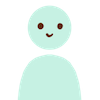
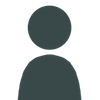
Home page and Nav bar

diff --git a/client/src/pages/Home.jsx b/client/src/pages/Home.jsx
@@ -1,0 +1,52 @@
+import '../styles/Home.css';
+import boxImage from '../assets/box.png'; 
+import { useState } from 'react';
+import { useNavigate } from 'react-router-dom'; 
+
+/**
+ * a home page with a search bar that brings you to the posts page
+ * @component
+ * @returns {JSX.Element} Home/Landing page
+ */
+export function HomePage() {
+    const [item, setItem] = useState(''); 
+    const navigate = useNavigate(); 
+
+    const search = () => {
+        navigate('/posts', { state: {searchItem: item} }); 
+    }; 
+
+    const trackItem = (e) => {
+        setItem(e.target.value)
+    }
+
+    const handleEnter = (e) => {
+        if (e.key === "Enter") { 
+            search(); 
+        }
+    }; 
+
+    return (
+        <div className="home-page">
+            <h1>Welcome! Hope you're ready to salvage and sustain your items!</h1>
+            <div className="block">
+                <h2>What would you like to give away?</h2>
+                <div className="box-block">
+                    <input 
+                        className="box-input" 
+                        placeholder='Place your item here' 
+                        value={item}
+                        onKeyDown={handleEnter}
+                        onChange={trackItem}>
+                    </input>
+                    <button 
+                        className="box-button"
+                        onClick={search}>
+                        Search
+                    </button>
+                    <img className="box-image" src={boxImage}></img>
+                </div>
+            </div>
+        </div>
+    ); 
+}

diff --git a/client/src/styles/Home.css b/client/src/styles/Home.css
@@ -1,0 +1,56 @@
+.home-page {
+    height: 70vh;
+    display: flex; 
+    align-items: center;
+    padding: 2rem; 
+    flex-direction: column;
+}
+
+.block {
+    background-color: var(--bg-secondary);
+    padding: 1rem; 
+    min-width: 25%;
+    max-width: 50%;
+    display: flex;
+    flex-direction: column;
+    align-items: center;
+    border-radius: 20px;
+}
+
+.box-block {
+    position: relative;  
+    display: flex; 
+    justify-content: center;
+}
+
+.box-image {
+    width: 100%;  
+}
+
+.box-input {
+    position: absolute; 
+    text-align: center;
+    width: 50%;
+    top: 60%; 
+    left: 51%; 
+    transform: translate(-50%, -50%);
+    padding: 1rem;
+}
+
+.box-button {
+    position: absolute; 
+    top: 80%; 
+    left: 51%; 
+    transform: translate(-50%, -50%);
+    padding: 0.5rem;
+    background-color: var(--bg-secondary);
+}
+
+.box-button:hover {
+    background-color: var(--accent);
+    color: var(--text-secondary); 
+}
+
+h2 {
+    color: var(--text-secondary); 
+}

diff --git a/client/src/styles/index.css b/client/src/styles/index.css
@@ -1,16 +1,22 @@
 /* src/styles/colors.css or index.css */
 :root {
+  /* CSS HEX */
+  --raisin-black: #2e282aff;
+  --wheat: #f8dfb4ff;
+  --tiffany-blue: #93dccdff;
+  --jade: #2fa86eff;
+
   /* Primary Colors */
-  --primary: #e0a032;
-  --secondary: #5d3321;
-  --accent: #4ad5c3;
+  --primary: rgb(238, 174, 63);
+  --secondary: rgb(218, 235, 232);
+  --accent: #93dccdff;
   
   /* Text Colors */
-  --text-primary: #5b3823;
-  --text-secondary: #d0f3ef;
+  --text-primary: rgb(246, 233, 212);
+  --text-secondary: #5b3823;
   
   /* Background Colors */
-  --bg-primary: #267b69;
+  --bg-primary: rgb(125, 190, 160);
   --bg-secondary: #ebe1cf;
   
   /* Status Colors */

diff --git a/client/src/App.jsx b/client/src/App.jsx
@@ -5,6 +5,7 @@ import { LoginPage, SignUpPage } from './pages/Auth'
 import { UserPage } from './pages/User';
 import { PostPage } from './pages/Posts';
 import { NavBar } from './components/NavBar';
+import { HomePage } from './pages/Home';
 
 const Layout = () => {
   return (
@@ -20,6 +21,7 @@ export default function App() {
     <BrowserRouter>
       <Routes>
         <Route element={<Layout />}>
+          <Route path="/" element={<HomePage />} />
           <Route path="/login" element={<LoginPage />} />
           <Route path="/signup" element={<SignUpPage />} />
           <Route path="/user" element={<UserPage />} />

diff --git a/client/src/styles/NavBar.css b/client/src/styles/NavBar.css
@@ -31,18 +31,30 @@
     margin: 0; 
     padding: 0;
     right: 0px; 
-    gap: 15px; 
+    gap: 20px; 
     color: var(--text-secondary); 
     font-style: none;
+    font-size: 14pt; 
+    margin-left: 15px;
+    height: 100%;
 }
 
 .navitem {
     display: flex; 
     align-items: center; 
+    font-style: normal;
+    text-decoration: none;
+    height: 100%;
+}
+
+.navitem:hover {
+    background-color: var(--accent);
 }
 
 .link-title {
     color: var(--text-secondary); 
+    font-style: normal;
+    text-decoration: none;
 }
 
 .icon {

diff --git a/client/src/components/NavBar.jsx b/client/src/components/NavBar.jsx
@@ -31,7 +31,6 @@ export function NavBar() {
                     <span className="link-title">Profile</span>
                     <img className="icon" src={profileIcon}></img>
                 </Link>
-
             </ul>   
         </div>
     ); 
